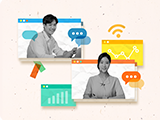
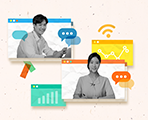
마이페이지 배너 추가 작업

diff --git a/html/마이페이지_new메인.html b/html/마이페이지_new메인.html
@@ -288,28 +288,74 @@
 							</ul>
 							<div class="infoBanner">
 								<div class="bgRoseWhite">
-									<a href="javascript:void(0);">
+									<a href="https://www.jobaba.net/auland/mainList.do" target="_blank">
 										<div class="thumb">
-											<img src="./resource/images/mypage_banner01.png" alt="" />
+											<img src="./resource/images/mypage_banner01.png" alt="취업진로 진단검사" />
 										</div>
 										<div>
-											<strong class="txtOrangeRed">취업진로 진단검사</strong>
-											<p>나에게 적합한 진로, 직업, 직무를 찾아드립니다</p>
+											<strong class="txtEasternBlue">취업진로 진단검사</strong>
+											<p>나에게 적합한 진로, 직업, 직무를<br class="m_hide"> 찾아드립니다</p>
 										</div>
 									</a>
 								</div>
 								<div class="bgRoseWhite">
-									<a href="javascript:void(0);">
+									<a href="https://www.jobaba.net/introduction/mainList.do" target="_blank">
 										<div class="thumb">
-											<img src="./resource/images/mypage_banner02.png" alt="" />
+											<img src="./resource/images/mypage_banner02.png" alt="자기소개서 첨삭" />
 										</div>
 										<div>
 											<strong class="txtEasternBlue">자기소개서 첨삭</strong>
-											<p>전문 컨설터들의 차별화된 첨삭 지도로 심층 컨설팅을 해드립니다.</p>
+											<p>전문 컨설터들의 차별화된 첨삭 지도로<br class="m_hide"> 심층 컨설팅을 해드립니다.</p>
 										</div>
 									</a>
 								</div>
-							</div>       
+								<!-- 배너 추가부분
+								<div class="bgSpringWood">
+									<a href="https://www.jobaba.net/interview/mainList.do" target="_blank">
+										<div class="thumb">
+											<img src="./resource/images/mypage_banner03.png" alt="AI역량검사" />
+										</div>
+										<div>
+											<strong class="txtEasternBlue">AI역량검사</strong>
+											<p>AI 역량검사를 통해 완벽한 면접을<br class="m_hide"> 준비할 수있습니다.</p>
+										</div>
+									</a>
+								</div>
+								<div class="bgWhiteRock1">
+									<a href="https://www.jobaba.net/psychology/mainList.do" target="_blank">
+										<div class="thumb">
+											<img src="./resource/images/mypage_banner04.png" alt="진로, 취업상담" />
+										</div>
+										<div>
+											<strong class="txtEasternBlue">진로, 취업상담</strong>
+											<p>다양한 심리적 어려움을 겪고 계신분들을<br class="m_hide"> 위한 상담서비스를 제공합니다.</p>
+										</div>
+									</a>
+								</div>
+								<div class="bgWhiteRock2">
+									<a href="https://www.jobaba.net/mentoring/mainList.do" target="_blank">
+										<div class="thumb">
+											<img src="./resource/images/mypage_banner05.png" alt="취업멘토링" />
+										</div>
+										<div>
+											<strong class="txtEasternBlue">취업멘토링</strong>
+											<p>업계 선배들의 취업정보, 업무상담 등<br class="m_hide"> 생생한 정보를 얻을 수 있습니다. </p>
+										</div>
+									</a>
+								</div>
+								<div class="bgMerino">
+									<a href="https://www.jobaba.net/jobInfoNcs/jobInfoNcsMain.do" target="_blank">
+										<div class="thumb">
+											<img src="./resource/images/mypage_banner06.png" alt="NCS직업역량진단" />
+										</div>
+										<div>
+											<strong class="txtEasternBlue">NCS직업역량진단</strong>
+											<p>내가 하고자 하는 직무에 필요한 역량이<br class="m_hide"> 무엇인지 알고 성공적으로 취업준비하세요.</p>
+										</div>
+									</a>
+								</div>
+								 -->
+							</div>             
 						</div>
 						<div data-tab="tab2" class="infoCont">
 							<ul>
@@ -396,27 +442,73 @@
 							</ul>
 							<div class="infoBanner">
 								<div class="bgRoseWhite">
-									<a href="javascript:void(0);">
+									<a href="https://www.jobaba.net/auland/mainList.do" target="_blank">
 										<div class="thumb">
-											<img src="./resource/images/mypage_banner01.png" alt="" />
+											<img src="./resource/images/mypage_banner01.png" alt="취업진로 진단검사" />
 										</div>
 										<div>
-											<strong class="txtOrangeRed">취업진로 진단검사</strong>
-											<p>나에게 적합한 진로, 직업, 직무를 찾아드립니다</p>
+											<strong class="txtEasternBlue">취업진로 진단검사</strong>
+											<p>나에게 적합한 진로, 직업, 직무를<br class="m_hide"> 찾아드립니다</p>
 										</div>
 									</a>
 								</div>
 								<div class="bgRoseWhite">
-									<a href="javascript:void(0);">
+									<a href="https://www.jobaba.net/introduction/mainList.do" target="_blank">
 										<div class="thumb">
-											<img src="./resource/images/mypage_banner02.png" alt="" />
+											<img src="./resource/images/mypage_banner02.png" alt="자기소개서 첨삭" />
 										</div>
 										<div>
 											<strong class="txtEasternBlue">자기소개서 첨삭</strong>
-											<p>전문 컨설터들의 차별화된 첨삭 지도로 심층 컨설팅을 해드립니다.</p>
+											<p>전문 컨설터들의 차별화된 첨삭 지도로<br class="m_hide"> 심층 컨설팅을 해드립니다.</p>
 										</div>
 									</a>
 								</div>
+								<!-- 배너 추가부분
+								<div class="bgSpringWood">
+									<a href="https://www.jobaba.net/interview/mainList.do" target="_blank">
+										<div class="thumb">
+											<img src="./resource/images/mypage_banner03.png" alt="AI역량검사" />
+										</div>
+										<div>
+											<strong class="txtEasternBlue">AI역량검사</strong>
+											<p>AI 역량검사를 통해 완벽한 면접을<br class="m_hide"> 준비할 수있습니다.</p>
+										</div>
+									</a>
+								</div>
+								<div class="bgWhiteRock1">
+									<a href="https://www.jobaba.net/psychology/mainList.do" target="_blank">
+										<div class="thumb">
+											<img src="./resource/images/mypage_banner04.png" alt="진로, 취업상담" />
+										</div>
+										<div>
+											<strong class="txtEasternBlue">진로, 취업상담</strong>
+											<p>다양한 심리적 어려움을 겪고 계신분들을<br class="m_hide"> 위한 상담서비스를 제공합니다.</p>
+										</div>
+									</a>
+								</div>
+								<div class="bgWhiteRock2">
+									<a href="https://www.jobaba.net/mentoring/mainList.do" target="_blank">
+										<div class="thumb">
+											<img src="./resource/images/mypage_banner05.png" alt="취업멘토링" />
+										</div>
+										<div>
+											<strong class="txtEasternBlue">취업멘토링</strong>
+											<p>업계 선배들의 취업정보, 업무상담 등<br class="m_hide"> 생생한 정보를 얻을 수 있습니다. </p>
+										</div>
+									</a>
+								</div>
+								<div class="bgMerino">
+									<a href="https://www.jobaba.net/jobInfoNcs/jobInfoNcsMain.do" target="_blank">
+										<div class="thumb">
+											<img src="./resource/images/mypage_banner06.png" alt="NCS직업역량진단" />
+										</div>
+										<div>
+											<strong class="txtEasternBlue">NCS직업역량진단</strong>
+											<p>내가 하고자 하는 직무에 필요한 역량이<br class="m_hide"> 무엇인지 알고 성공적으로 취업준비하세요.</p>
+										</div>
+									</a>
+								</div>
+								 -->
 							</div>       
 						</div>
 						<div data-tab="tab3" class="infoCont">

diff --git a/html/css/newMypage.css b/html/css/newMypage.css
@@ -1,6 +1,10 @@
 @charset "utf-8"; 
 
-.bgRoseWhite { background: #FDF3EF !important; } 
+.bgRoseWhite { background: #FDF3EF !important; }
+.bgSpringWood { background: #f3f3e6 !important; }
+.bgWhiteRock1 { background: #eeedde !important; }
+.bgWhiteRock2 { background: #f1f0e3 !important; }
+.bgMerino { background: #F6F0E6 !important; } 
 .bgGoldenPoppy { background: #FAC400 !important; } 
 .bgPuertoRico { background: #38bab2 !important; } 
 
@@ -119,8 +123,8 @@
 .myContents .infoCont > ul li a div > p { margin-top: 20px; width: 100%; height: 52px; color: #222222; font-size: 14px; line-height: 24px; text-overflow: ellipsis; overflow: hidden; display: -webkit-box; -webkit-line-clamp: 2; -webkit-box-orient: vertical; word-wrap: break-word; } 
 .myContents .infoBanner { display: flex; gap: 0 20px; margin-top: 50px; padding-top: 50px; border-top: 1px solid #dddddd; } 
 .myContents .infoBanner > div { width: calc((100% - 20px) / 2); border-radius: 8px; overflow: hidden; } 
-.myContents .infoBanner > div a { display: flex; align-items: center; gap: 0 20px; height: 120px; padding: 0 10px; } 
-.myContents .infoBanner > div a .thumb { width: 160px; min-width: 160px; height: 100%; } 
+.myContents .infoBanner > div a { display: flex; align-items: center; height: 120px; padding: 0 10px; word-break: keep-all;} 
+.myContents .infoBanner > div a .thumb { width: 160px; min-width: 160px; height: 100%; margin-right: 20px; } 
 .myContents .infoBanner > div a .thumb > img { object-fit: cover; width: 100%; height: 100%; } 
 .myContents .infoBanner > div a strong { font-size: 16px; line-height: 24px; } 
 .myContents .infoBanner > div a p { color: #222222; font-size: 14px; line-height: 24px; } 
@@ -144,7 +148,19 @@
  .myContents .infoBanner { flex-direction: column; gap: 10px 0; } 
  .myContents .infoBanner > div { width: 100%; } 
  }
-
+ @media all and (max-width:480px){
+    .myContents .infoBanner > div {
+        padding-bottom: 10px;
+    }
+    .myContents .infoBanner > div a {
+        flex-direction: column;
+        height: auto;
+        text-align: center;
+    }
+    .myContents .infoBanner > div a .thumb {
+        margin-bottom: 10px;
+    }
+ }
 /* left 메뉴 */
 .myContents .leftMenu { width: 260px; background: #fff; } 
 .myContents .leftMenu .mypageBtn { width: 100%; padding: 20px; margin-bottom: 30px; background: #f6f7f9; line-height: 26px; border-radius: 5px; } 
